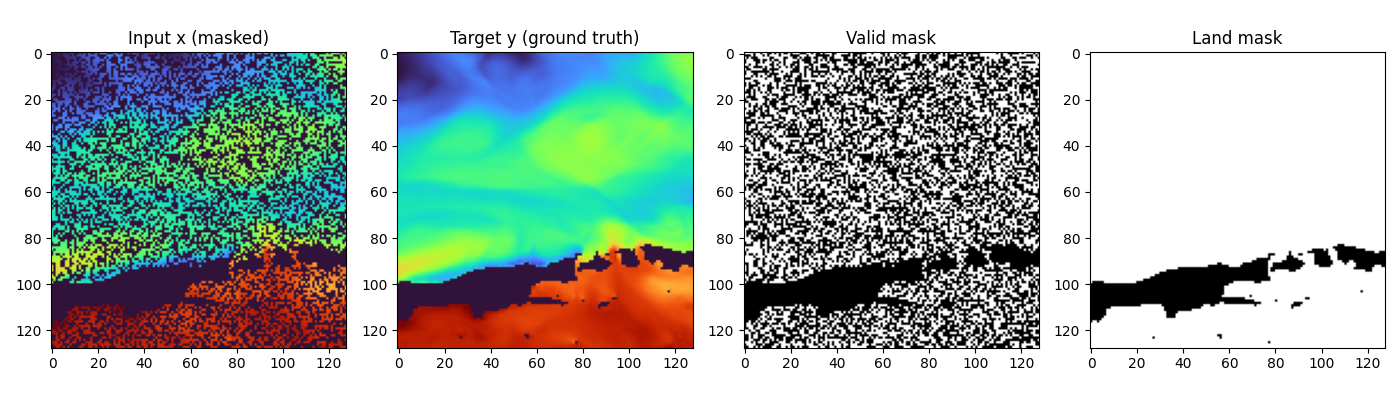
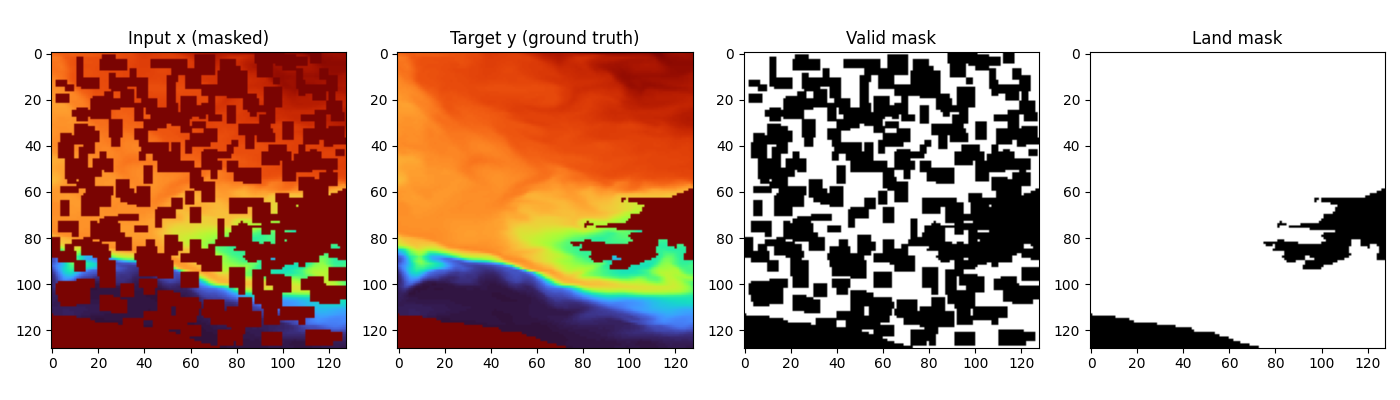
dynamic patch size for noise

diff --git a/data/dataset.py b/data/dataset.py
@@ -31,6 +31,8 @@ class SurfaceTempPatchDataset(Dataset):
         max_nodata_fraction: float,
         nan_fill_value: float,
         mask_fraction: float,
+        mask_patch_min: int,
+        mask_patch_max: int,
         enable_transform: bool,
         x_return_mode: str,
         return_info: bool,
@@ -45,6 +47,12 @@ class SurfaceTempPatchDataset(Dataset):
         self.max_nodata_fraction = float(max_nodata_fraction)
         self.nan_fill_value = float(nan_fill_value)
         self.mask_fraction = float(np.clip(mask_fraction, 0.0, 1.0))
+        self.mask_patch_min = int(mask_patch_min)
+        self.mask_patch_max = int(mask_patch_max)
+        if self.mask_patch_min < 1 or self.mask_patch_max < 1:
+            raise ValueError("mask_patch_min and mask_patch_max must be >= 1.")
+        if self.mask_patch_min > self.mask_patch_max:
+            raise ValueError("mask_patch_min must be <= mask_patch_max.")
         self.enable_transform = bool(enable_transform)
         self.x_return_mode = str(x_return_mode)
         self.return_info = bool(return_info)
@@ -95,6 +103,8 @@ class SurfaceTempPatchDataset(Dataset):
             max_nodata_fraction=float(ds_cfg.get("max_nodata_fraction", 0.2)),
             nan_fill_value=float(ds_cfg.get("nan_fill_value", 0.0)),
             mask_fraction=float(ds_cfg.get("mask_fraction", 0.0)),
+            mask_patch_min=int(ds_cfg.get("mask_patch_min", 3)),
+            mask_patch_max=int(ds_cfg.get("mask_patch_max", 9)),
             enable_transform=bool(ds_cfg.get("enable_transform", True)),
             x_return_mode=str(ds_cfg.get("x_return_mode", "currupted_plus_mask")),
             return_info=bool(ds_cfg.get("return_info", False)),
@@ -165,9 +175,31 @@ class SurfaceTempPatchDataset(Dataset):
         y_corrupt = y_clean.clone()
 
         if self.mask_fraction > 0.0:
-            hide = torch.rand_like(y_corrupt) < self.mask_fraction  # random over whole image
-            valid_mask[hide] = 0.0
-            y_corrupt[hide] = 0.0
+            _, h, w = y_corrupt.shape
+            target = int(round(self.mask_fraction * h * w))
+            if target > 0:
+                patch_mask = torch.zeros(
+                    (h, w), dtype=torch.bool, device=y_corrupt.device
+                )
+                covered = 0
+                while covered < target:
+                    ph = int(
+                        torch.randint(
+                            self.mask_patch_min, self.mask_patch_max + 1, (1,)
+                        ).item()
+                    )
+                    pw = int(
+                        torch.randint(
+                            self.mask_patch_min, self.mask_patch_max + 1, (1,)
+                        ).item()
+                    )
+                    y0 = int(torch.randint(0, max(1, h - ph + 1), (1,)).item())
+                    x0 = int(torch.randint(0, max(1, w - pw + 1), (1,)).item())
+                    patch_mask[y0 : y0 + ph, x0 : x0 + pw] = True
+                    covered = int(patch_mask.sum().item())
+                hide = patch_mask.unsqueeze(0)
+                valid_mask[hide] = 0.0
+                y_corrupt[hide] = 0.0
 
         # x is the corrupted input; y is the clean target
         x = y_corrupt  # (1, H, W)

diff --git a/data/dataset_light.py b/data/dataset_light.py
@@ -25,6 +25,8 @@ class SurfaceTempPatchLightDataset(Dataset):
         csv_path: str | Path,
         split: str = "all",
         mask_fraction: float = 0.0,
+        mask_patch_min: int = 3,
+        mask_patch_max: int = 9,
         enable_transform: bool = False,
         x_return_mode: str = "currupted_plus_mask",
         return_info: bool = False,
@@ -37,6 +39,12 @@ class SurfaceTempPatchLightDataset(Dataset):
         self.csv_dir = self.csv_path.parent
         self.split = str(split).strip().lower()
         self.mask_fraction = float(np.clip(mask_fraction, 0.0, 1.0))
+        self.mask_patch_min = int(mask_patch_min)
+        self.mask_patch_max = int(mask_patch_max)
+        if self.mask_patch_min < 1 or self.mask_patch_max < 1:
+            raise ValueError("mask_patch_min and mask_patch_max must be >= 1.")
+        if self.mask_patch_min > self.mask_patch_max:
+            raise ValueError("mask_patch_min must be <= mask_patch_max.")
         self.enable_transform = bool(enable_transform)
         self.return_info = bool(return_info)
         self.valid_from_fill_value = bool(valid_from_fill_value)
@@ -110,6 +118,8 @@ class SurfaceTempPatchLightDataset(Dataset):
             csv_path=csv_path,
             split=split,
             mask_fraction=float(ds_cfg.get("mask_fraction", 0.0)),
+            mask_patch_min=int(ds_cfg.get("mask_patch_min", 3)),
+            mask_patch_max=int(ds_cfg.get("mask_patch_max", 9)),
             enable_transform=bool(ds_cfg.get("enable_transform", False)),
             x_return_mode=str(ds_cfg.get("x_return_mode", "currupted_plus_mask")),
             return_info=bool(ds_cfg.get("return_info", False)),
@@ -169,9 +179,31 @@ class SurfaceTempPatchLightDataset(Dataset):
         y_corrupt = y_clean.clone()
 
         if self.mask_fraction > 0.0:
-            hide = torch.rand_like(y_corrupt) < self.mask_fraction
-            valid_mask[hide] = 0.0
-            y_corrupt[hide] = 0.0
+            _, h, w = y_corrupt.shape
+            target = int(round(self.mask_fraction * h * w))
+            if target > 0:
+                patch_mask = torch.zeros(
+                    (h, w), dtype=torch.bool, device=y_corrupt.device
+                )
+                covered = 0
+                while covered < target:
+                    ph = int(
+                        torch.randint(
+                            self.mask_patch_min, self.mask_patch_max + 1, (1,)
+                        ).item()
+                    )
+                    pw = int(
+                        torch.randint(
+                            self.mask_patch_min, self.mask_patch_max + 1, (1,)
+                        ).item()
+                    )
+                    y0 = int(torch.randint(0, max(1, h - ph + 1), (1,)).item())
+                    x0 = int(torch.randint(0, max(1, w - pw + 1), (1,)).item())
+                    patch_mask[y0 : y0 + ph, x0 : x0 + pw] = True
+                    covered = int(patch_mask.sum().item())
+                hide = patch_mask.unsqueeze(0)
+                valid_mask[hide] = 0.0
+                y_corrupt[hide] = 0.0
 
         x = y_corrupt
         x = torch.nan_to_num(x, nan=0.0, posinf=0.0, neginf=0.0)

diff --git a/README.md b/README.md
@@ -2,14 +2,15 @@
 This implementation is a first test, checking the feasability of densifying sparse ocean measurements.
 
 ## Data
-Currently, all 2024 tiles from the [Global Ocean Physics Reanalysis dataset](https://data.marine.copernicus.eu/product/GLOBAL_MULTIYEAR_PHY_001_030/files?subdataset=cmems_mod_glo_phy_my_0.083deg_P1M-m_202311&path=GLOBAL_MULTIYEAR_PHY_001_030%2Fcmems_mod_glo_phy_my_0.083deg_P1M-m_202311%2F2024%2F) have been downloaded and are manually masked to simulate real sparse observations. Download the data by installing the `copernicusmarine` package, then use the CLI like so `copernicusmarine get -i cmems_mod_glo_phy_my_0.083deg_P1M-m  --filter "*2021/*"`
+Currently, monthly tiles from 2000 - 2025 from the [Global Ocean Physics Reanalysis dataset](https://data.marine.copernicus.eu/product/GLOBAL_MULTIYEAR_PHY_001_030/files?subdataset=cmems_mod_glo_phy_my_0.083deg_P1M-m_202311&path=GLOBAL_MULTIYEAR_PHY_001_030%2Fcmems_mod_glo_phy_my_0.083deg_P1M-m_202311%2F2024%2F) have been downloaded and are manually masked to simulate real sparse observations. Excluding patches with >20% NoData values, ~106k samples are avaialble (128x128, 1/12 °). Download the data by installing the `copernicusmarine` package, then use the CLI like so `copernicusmarine get -i cmems_mod_glo_phy_my_0.083deg_P1M-m  --filter "*2021/*"`  
+The of the obstructions and the coverage percentage are selectable in the `data_config.yaml`.
 
 Dataset example for 50% occlusion:  
 ![img](assets/dataset_50percMask.png)  
 
 Current Status:
 - 1-band only for experimentation
-- somewhat arbitrary pixel size
+- 128x128 hardcoded
 
 ## Model
 As a first prototype, a conditional pixel-space Diffuser is modeled after [DiffusionFF](https://github.com/mikonvergence/DiffusionFastForward)
